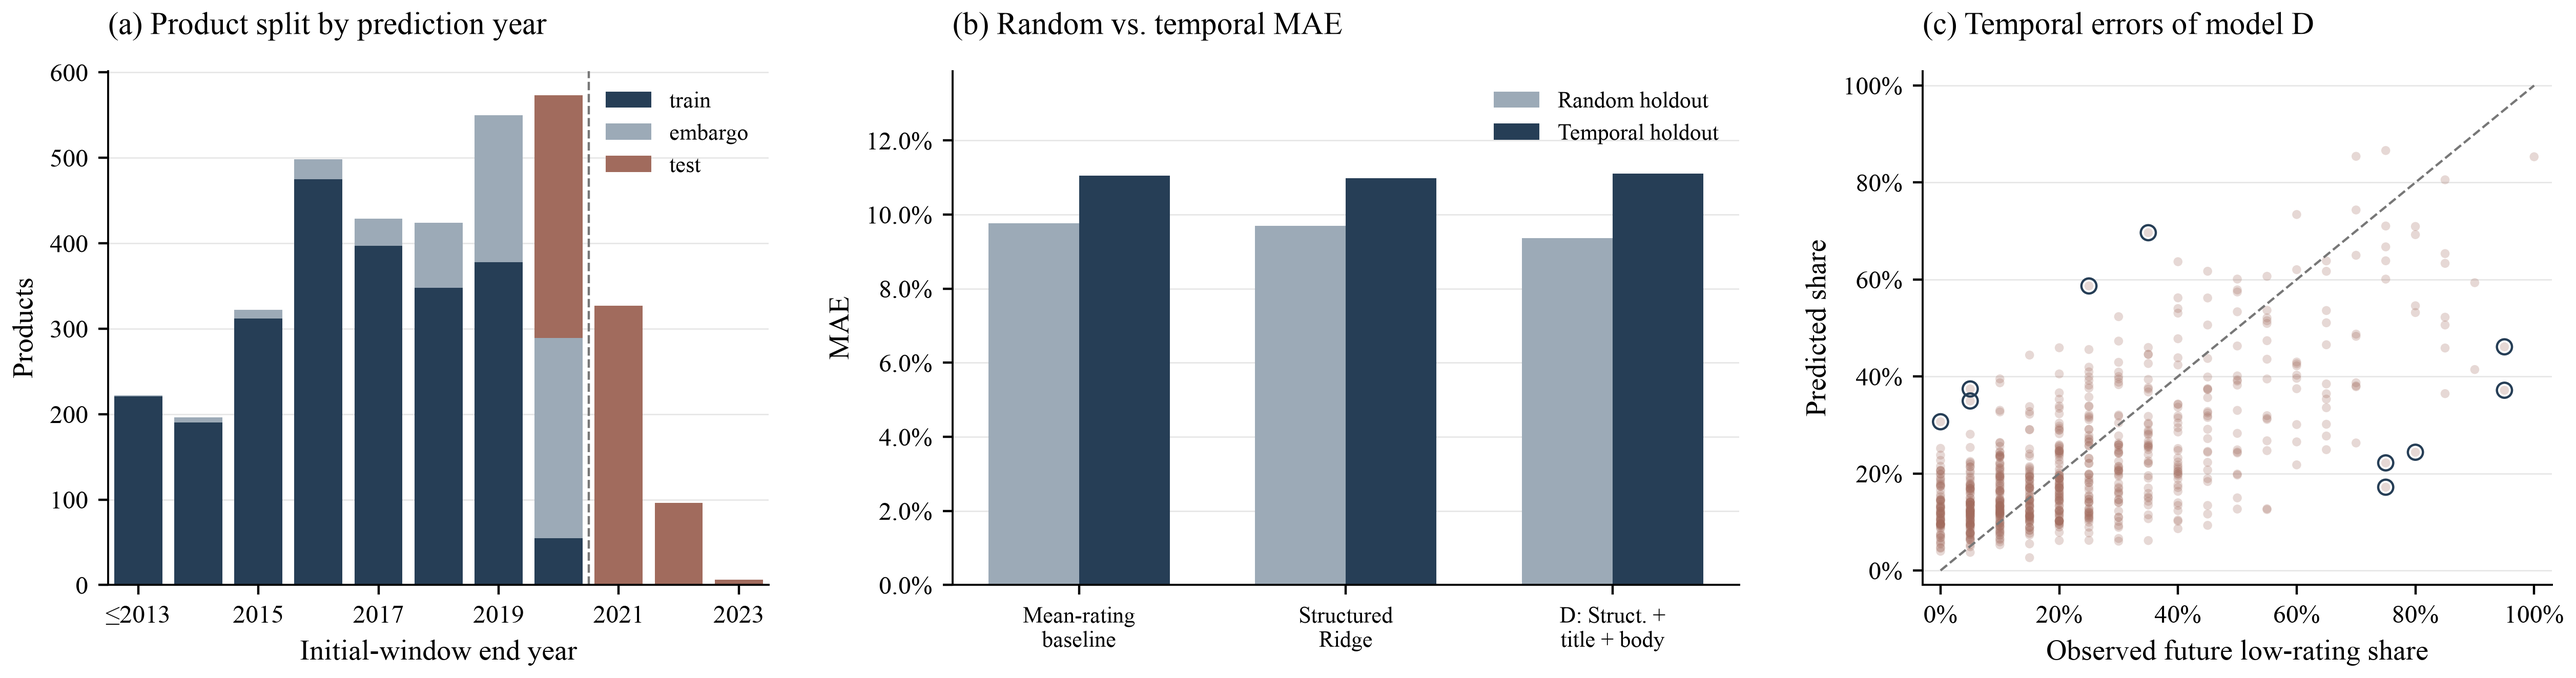
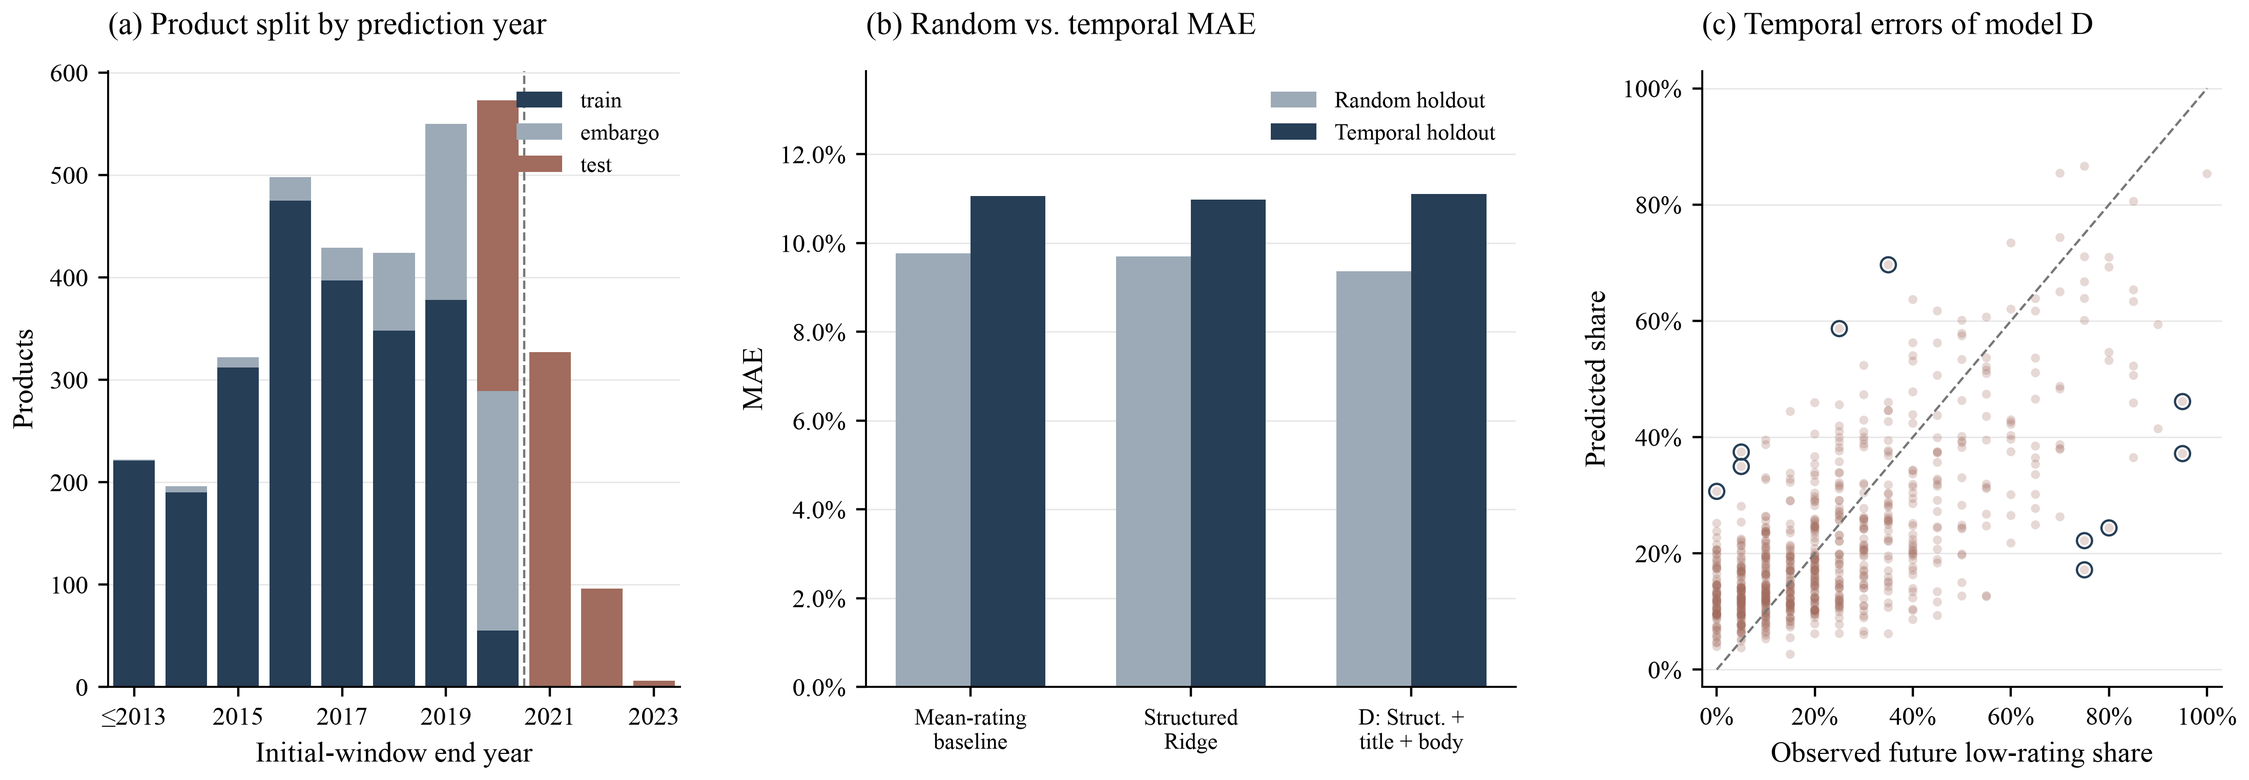
Resize week 5 figure for activity report

diff --git a/scripts/week5_temporal_evaluation.py b/scripts/week5_temporal_evaluation.py
@@ -353,7 +353,9 @@ def save_figure(split: pd.DataFrame, comparison: pd.DataFrame,
         "axes.linewidth": .7, "xtick.labelsize": 9, "ytick.labelsize": 9,
     })
     navy, light, accent = "#263E56", "#9CAAB7", "#A16B5D"
-    fig, axes = plt.subplots(1, 3, figsize=(12.8, 3.5), gridspec_kw={"width_ratios": [1.05, 1.25, 1]})
+    # 주별 활동 보고서의 가로형 사진 칸에서 글자가 지나치게 작아지지 않도록
+    # 3개 패널을 약 2.8:1 비율로 구성합니다.
+    fig, axes = plt.subplots(1, 3, figsize=(11.2, 4.0), gridspec_kw={"width_ratios": [1.1, 1.25, 1]})
 
     timeline = split.copy()
     timeline["year"] = pd.to_datetime(timeline.initial_end_timestamp_utc, utc=True).dt.year.clip(lower=2013)
